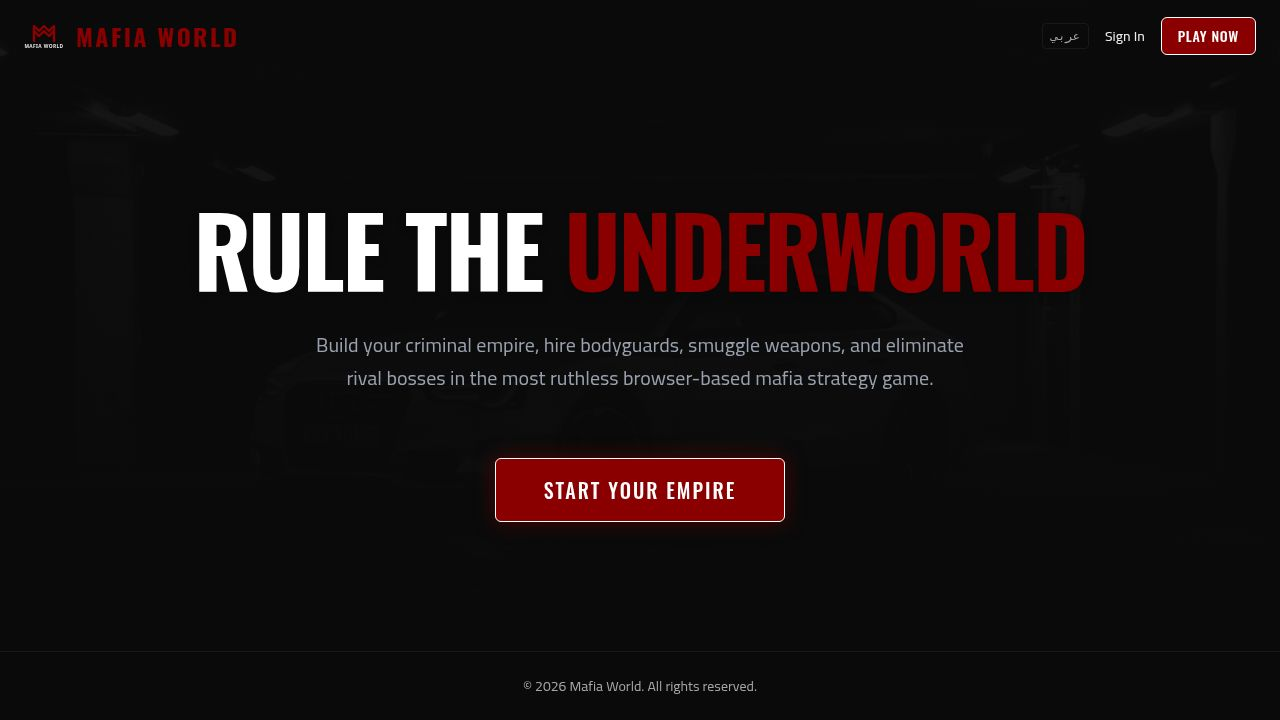
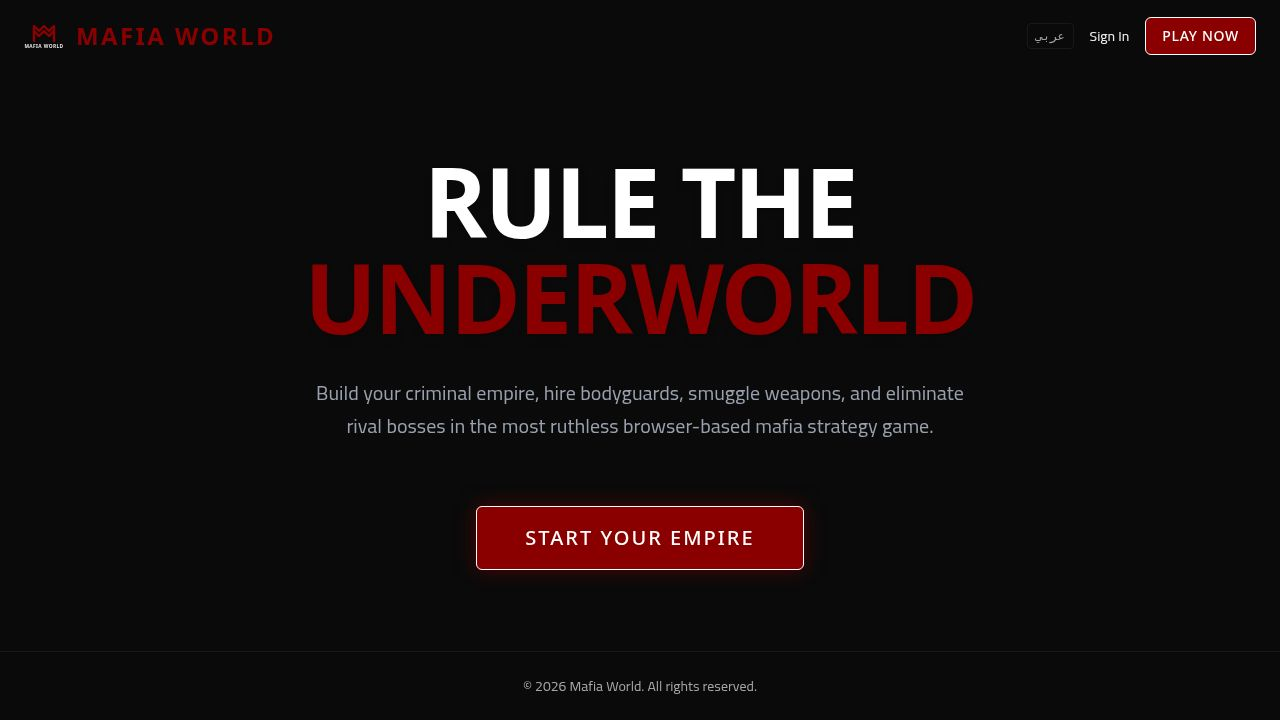
Task #40: full responsive audit for Mafia World
Make every player-facing and super-admin page work cleanly at 375px,
768px, and 1024px+ using Tailwind responsive prefixes only — no
media-query CSS, no visual redesign.

Global shell:
- layout.tsx: hide sidebar < md; mobile sticky topbar with hamburger
  opening a Sheet drawer (RTL-aware side, auto-closes on nav).
- layout.tsx: add money + level key counters to mobile topbar (compact
  locale-aware formatting; bell stays in top-right cluster).
- ui/dialog.tsx: clamp DialogContent to viewport with scroll body and
  responsive padding so all shadcn dialogs (Black Market sell, etc.)
  fit on 375px.
- PageBanner.tsx: shrink heights/typography for mobile, wrap long titles.

Per-page tightening (player-facing):
- dashboard.tsx: activity rows min-w-0 + break-words.
- players.tsx: card header gap + min-w-0 truncate on username.
- gang-detail.tsx: roster row min-w-0 truncate; badge shrink-0.
- crimes.tsx: header gap-2 min-w-0; title text-base sm:text-lg
  break-words; right action panel border-t on mobile, border-l on
  desktop so action stacks beneath description.
- attack.tsx: my-attacks row min-w-0 + break-words for long targets.
- properties.tsx: reactor stats grid-cols-1 sm:grid-cols-3 (was 3 cols
  at all sizes, too tight at 375).
- profile.tsx: anti-spy status row stacks on mobile so countdown wraps
  below the icon/label.
- bodyguards.tsx: incoming-request rows stack on mobile, accept/reject
  group wraps.
[…]

diff --git a/artifacts/mafia-world/src/pages/super-admin/players.tsx b/artifacts/mafia-world/src/pages/super-admin/players.tsx
@@ -143,7 +143,58 @@ export default function SuperAdminPlayers() {
           </label>
         </div>
 
-        <div className="bg-[#1e293b] rounded-xl border border-slate-700 overflow-x-auto">
+        {/* Mobile card stack */}
+        <div className="md:hidden space-y-2">
+          {loading ? (
+            <div className="bg-[#1e293b] rounded-xl border border-slate-700 py-8 text-center text-slate-500 text-sm">Loading...</div>
+          ) : players.map(p => (
+            <div key={p.id} className={`bg-[#1e293b] rounded-xl border border-slate-700 p-3 ${p.isBanned ? "opacity-60" : ""}`}>
+              <div className="flex items-start justify-between gap-2">
+                <div className="min-w-0 flex-1">
+                  <div className="font-medium text-white text-sm flex items-center gap-1.5 flex-wrap">
+                    <span className="truncate">{p.username}</span>
+                    {p.isBanned && <span className="text-xs bg-red-900/50 text-red-400 border border-red-700/40 px-1.5 py-0.5 rounded">banned</span>}
+                    {p.isPermanentlyDead && <span className="text-xs bg-red-950/70 text-red-300 border border-red-800/60 px-1.5 py-0.5 rounded">💀</span>}
+                  </div>
+                  <div className="text-xs text-slate-500">{p.cityName} • Lvl {p.level}</div>
+                </div>
+                {p.isPermanentlyDead ? (
+                  <span className="text-xs bg-red-950/60 text-red-300 border border-red-800/60 px-2 py-0.5 rounded-full shrink-0">DEAD</span>
+                ) : p.isInPrison ? (
+                  <span className="text-xs bg-orange-900/30 text-orange-400 border border-orange-700/50 px-2 py-0.5 rounded-full shrink-0">Prison</span>
+                ) : (
+                  <span className="text-xs bg-green-900/20 text-green-400 border border-green-700/30 px-2 py-0.5 rounded-full shrink-0">Active</span>
+                )}
+              </div>
+              <div className="mt-2 grid grid-cols-3 gap-2 text-xs text-slate-400">
+                <div><span className="text-slate-500">$</span> <span className="text-slate-300 font-mono">{p.money.toLocaleString()}</span></div>
+                <div><span className="text-slate-500">K/D</span> <span className="text-slate-300 font-mono">{p.killCount}/{p.deathCount}</span></div>
+                <div><span className="text-slate-500">A/D</span> <span className="text-slate-300 font-mono">{p.attackPower}/{p.defensePower}</span></div>
+              </div>
+              <div className="mt-2 flex flex-wrap gap-1">
+                <button onClick={() => setDialog({ type: "edit", player: p })} className="text-xs bg-slate-700 hover:bg-slate-600 text-white px-2 py-1 rounded">Edit</button>
+                <button onClick={() => setDialog({ type: "add-money", player: p })} className="text-xs bg-slate-700 hover:bg-slate-600 text-white px-2 py-1 rounded">💰</button>
+                {p.isInPrison
+                  ? <button onClick={() => releasePlayer(p)} className="text-xs bg-green-800/50 hover:bg-green-700 text-green-300 px-2 py-1 rounded">Release</button>
+                  : <button onClick={() => setDialog({ type: "jail", player: p })} className="text-xs bg-orange-900/50 hover:bg-orange-800 text-orange-300 px-2 py-1 rounded">Jail</button>}
+                {p.isBanned
+                  ? <button onClick={() => unbanPlayer(p)} className="text-xs bg-green-800/50 hover:bg-green-700 text-green-300 px-2 py-1 rounded">Unban</button>
+                  : <button onClick={() => setDialog({ type: "ban", player: p })} className="text-xs bg-red-900/40 hover:bg-red-800 text-red-400 px-2 py-1 rounded">Ban</button>}
+                {p.isChatMuted
+                  ? <button onClick={() => unmuteChat(p)} className="text-xs bg-green-800/50 hover:bg-green-700 text-green-300 px-2 py-1 rounded">Unmute</button>
+                  : <button onClick={() => setDialog({ type: "chat-mute", player: p })} className="text-xs bg-purple-900/40 hover:bg-purple-800 text-purple-300 px-2 py-1 rounded">Mute</button>}
+                {p.isPermanentlyDead && (
+                  <button onClick={() => setDialog({ type: "revive", player: p })} className="text-xs bg-emerald-800/50 hover:bg-emerald-700 text-emerald-200 px-2 py-1 rounded">Revive</button>
+                )}
+                <button onClick={() => setDialog({ type: "reset", player: p })} className="text-xs bg-yellow-900/40 hover:bg-yellow-800/60 text-yellow-400 px-2 py-1 rounded">Reset</button>
+                <button onClick={() => setDialog({ type: "delete", player: p })} className="text-xs bg-red-900/40 hover:bg-red-800/60 text-red-400 px-2 py-1 rounded">Del</button>
+              </div>
+            </div>
+          ))}
+        </div>
+
+        {/* Desktop table */}
+        <div className="hidden md:block bg-[#1e293b] rounded-xl border border-slate-700 overflow-x-auto">
           <table className="w-full text-sm">
             <thead>
               <tr className="text-xs text-slate-400 uppercase border-b border-slate-700">
@@ -233,7 +284,7 @@ export default function SuperAdminPlayers() {
 function Modal({ title, children, onClose }: { title: string; children: React.ReactNode; onClose: () => void }) {
   return (
     <div className="fixed inset-0 bg-black/60 z-50 flex items-center justify-center p-4" onClick={onClose}>
-      <div className="bg-[#1e293b] border border-slate-700 rounded-xl w-full max-w-sm p-5" onClick={e => e.stopPropagation()}>
+      <div className="bg-[#1e293b] border border-slate-700 rounded-xl w-full max-w-sm p-5 max-h-[calc(100vh-2rem)] overflow-y-auto" onClick={e => e.stopPropagation()}>
         <div className="flex items-center justify-between mb-4">
           <h3 className="font-semibold text-white text-sm">{title}</h3>
           <button onClick={onClose} className="text-slate-500 hover:text-white">✕</button>

diff --git a/artifacts/mafia-world/src/components/layout.tsx b/artifacts/mafia-world/src/components/layout.tsx
@@ -25,6 +25,8 @@ import {
   MessageCircle,
   Mail,
   Menu,
+  DollarSign,
+  Star,
 } from "lucide-react";
 import { Button } from "@/components/ui/button";
 import { Badge } from "@/components/ui/badge";
@@ -37,6 +39,7 @@ import {
 } from "@/components/ui/sheet";
 import { useQuery } from "@tanstack/react-query";
 import { NotificationBell } from "@/components/NotificationBell";
+import { useGetMyProfile, getGetMyProfileQueryKey } from "@workspace/api-client-react";
 
 
 interface LayoutProps {
@@ -133,8 +136,8 @@ function SidebarBody({ onNavigate }: SidebarBodyProps) {
                   : "text-muted-foreground hover:bg-secondary hover:text-foreground"
               }`}
             >
-              <Icon className="w-5 h-5" />
-              <span>{t(item.label)}</span>
+              <Icon className="w-5 h-5 shrink-0" />
+              <span className="truncate">{t(item.label)}</span>
             </Link>
           );
         })}
@@ -149,8 +152,8 @@ function SidebarBody({ onNavigate }: SidebarBodyProps) {
                 : "text-primary/70 hover:bg-primary/10 hover:text-primary"
             }`}
           >
-            <ShieldAlert className="w-5 h-5" />
-            <span>{t("nav.admin")}</span>
+            <ShieldAlert className="w-5 h-5 shrink-0" />
+            <span className="truncate">{t("nav.admin")}</span>
           </Link>
         )}
       </nav>
@@ -182,7 +185,7 @@ function SidebarBody({ onNavigate }: SidebarBodyProps) {
         <Button
           variant="ghost"
           className="w-full justify-start text-muted-foreground hover:text-destructive"
-          onClick={() => signOut()}
+          onClick={() => { onNavigate?.(); signOut(); }}
         >
           <LogOut className="w-5 h-5 mr-2" />
           {t("nav.logout")}
@@ -193,8 +196,9 @@ function SidebarBody({ onNavigate }: SidebarBodyProps) {
 }
 
 export function Layout({ children }: LayoutProps) {
-  const { t, dir } = useI18n();
+  const { t, dir, language } = useI18n();
   const [open, setOpen] = useState(false);
+  const { data: profileForTopbar } = useGetMyProfile({ query: { queryKey: getGetMyProfileQueryKey(), staleTime: 30000 } });
 
   return (
     <div className="min-h-screen bg-background text-foreground flex flex-col md:flex-row">
@@ -231,7 +235,21 @@ export function Layout({ children }: LayoutProps) {
           </span>
         </Link>
 
-        <NotificationBell />
+        <div className="flex items-center gap-1.5 shrink-0">
+          {profileForTopbar && (
+            <>
+              <span className="flex items-center gap-1 text-xs font-mono text-green-500 bg-green-500/10 px-1.5 py-1 rounded" data-testid="topbar-money">
+                <DollarSign className="w-3 h-3" />
+                <span className="tabular-nums">{Intl.NumberFormat(language === "ar" ? "ar-EG" : "en-US", { notation: "compact", maximumFractionDigits: 1 }).format(profileForTopbar.money)}</span>
+              </span>
+              <span className="flex items-center gap-1 text-xs font-mono text-primary bg-primary/10 px-1.5 py-1 rounded" data-testid="topbar-level">
+                <Star className="w-3 h-3" />
+                <span className="tabular-nums">{profileForTopbar.level}</span>
+              </span>
+            </>
+          )}
+          <NotificationBell />
+        </div>
       </header>
 
       {/* Desktop sidebar */}
@@ -239,7 +257,7 @@ export function Layout({ children }: LayoutProps) {
         <SidebarBody />
       </aside>
 
-      <main className="flex-1 overflow-y-auto p-4 md:p-8">
+      <main className="flex-1 overflow-y-auto p-3 sm:p-4 md:p-8 min-w-0">
         <div className="max-w-6xl mx-auto">{children}</div>
       </main>
     </div>

diff --git a/artifacts/mafia-world/src/pages/super-admin/blackmarket.tsx b/artifacts/mafia-world/src/pages/super-admin/blackmarket.tsx
@@ -34,7 +34,31 @@ export default function SuperAdminBlackMarket() {
           {msg && <span className="text-xs text-green-400 bg-green-900/20 px-2 py-1 rounded">{msg}</span>}
         </div>
 
-        <div className="bg-[#1e293b] rounded-xl border border-slate-700 overflow-x-auto">
+        {/* Mobile card stack */}
+        <div className="md:hidden space-y-2">
+          {loading ? (
+            <div className="bg-[#1e293b] rounded-xl border border-slate-700 py-8 text-center text-slate-500 text-sm">Loading...</div>
+          ) : listings.length === 0 ? (
+            <div className="bg-[#1e293b] rounded-xl border border-slate-700 py-8 text-center text-slate-500 text-sm">No listings</div>
+          ) : listings.map(l => (
+            <div key={l.id} className="bg-[#1e293b] rounded-xl border border-slate-700 p-3">
+              <div className="flex items-start justify-between gap-2">
+                <div className="min-w-0 flex-1">
+                  <p className="font-medium text-white text-sm truncate">{l.item_name}</p>
+                  <p className="text-xs text-slate-500 truncate">{l.seller_name}</p>
+                </div>
+                <span className="text-xs bg-slate-700 text-slate-300 px-2 py-0.5 rounded shrink-0">{l.item_type}</span>
+              </div>
+              <div className="mt-2 flex items-center justify-between text-xs">
+                <span className="text-slate-400">Qty <span className="text-slate-200 font-mono">{l.quantity}</span> &nbsp;·&nbsp; <span className="text-slate-200 font-mono">${l.price.toLocaleString()}</span></span>
+                <button onClick={() => removeListing(l.id)} className="text-xs bg-red-900/40 hover:bg-red-800/60 text-red-400 px-2 py-1 rounded">Remove</button>
+              </div>
+            </div>
+          ))}
+        </div>
+
+        {/* Desktop table */}
+        <div className="hidden md:block bg-[#1e293b] rounded-xl border border-slate-700 overflow-x-auto">
           <table className="w-full text-sm">
             <thead>
               <tr className="text-xs text-slate-400 uppercase border-b border-slate-700">

diff --git a/artifacts/mafia-world/src/pages/super-admin/prison.tsx b/artifacts/mafia-world/src/pages/super-admin/prison.tsx
@@ -46,7 +46,27 @@ export default function SuperAdminPrison() {
         {prisoners.length === 0 && !loading ? (
           <div className="bg-[#1e293b] rounded-xl border border-slate-700 py-12 text-center text-slate-500">No players in prison</div>
         ) : (
-          <div className="bg-[#1e293b] rounded-xl border border-slate-700 overflow-x-auto">
+          <>
+          {/* Mobile card stack */}
+          <div className="md:hidden space-y-2">
+            {loading ? (
+              <div className="bg-[#1e293b] rounded-xl border border-slate-700 py-8 text-center text-slate-500 text-sm">Loading...</div>
+            ) : prisoners.map(p => (
+              <div key={p.id} className="bg-[#1e293b] rounded-xl border border-slate-700 p-3">
+                <div className="flex items-start justify-between gap-2">
+                  <div className="min-w-0 flex-1">
+                    <p className="font-medium text-white text-sm truncate">{p.username} <span className="text-xs text-slate-500">Lvl {p.level}</span></p>
+                    <p className="text-xs text-slate-500 truncate">{p.prisonCrime ?? "—"}</p>
+                  </div>
+                  <span className="text-orange-400 text-xs font-mono shrink-0">{timeLeft(p.prisonReleaseAt)}</span>
+                </div>
+                <button onClick={() => release(p)} className="mt-2 text-xs bg-green-800/50 hover:bg-green-700 text-green-300 px-2 py-1 rounded w-full">Release</button>
+              </div>
+            ))}
+          </div>
+
+          {/* Desktop table */}
+          <div className="hidden md:block bg-[#1e293b] rounded-xl border border-slate-700 overflow-x-auto">
             <table className="w-full text-sm">
               <thead>
                 <tr className="text-xs text-slate-400 uppercase border-b border-slate-700">
@@ -76,6 +96,7 @@ export default function SuperAdminPrison() {
               </tbody>
             </table>
           </div>
+          </>
         )}
       </div>
     </AdminLayout>

diff --git a/artifacts/mafia-world/src/pages/super-admin/activity-log.tsx b/artifacts/mafia-world/src/pages/super-admin/activity-log.tsx
@@ -49,7 +49,24 @@ export default function SuperAdminActivityLog() {
           className="bg-[#1e293b] border border-slate-600 rounded-lg px-3 py-2 text-sm text-white placeholder-slate-500 focus:outline-none focus:border-[#ef4444] w-56"
         />
 
-        <div className="bg-[#1e293b] rounded-xl border border-slate-700 overflow-x-auto">
+        {/* Mobile card stack */}
+        <div className="md:hidden space-y-2">
+          {loading ? (
+            <div className="bg-[#1e293b] rounded-xl border border-slate-700 py-8 text-center text-slate-500 text-sm">Loading...</div>
+          ) : events.map(e => (
+            <div key={e.id} className="bg-[#1e293b] rounded-xl border border-slate-700 p-3">
+              <div className="flex items-start justify-between gap-2">
+                <span className={`text-xs px-2 py-0.5 rounded shrink-0 ${TYPE_COLORS[e.type] ?? "text-slate-400 bg-slate-700/20"}`}>{e.type}</span>
+                <span className="text-xs text-slate-500 text-right shrink-0">{new Date(e.createdAt).toLocaleString()}</span>
+              </div>
+              <div className="mt-1.5 text-xs text-slate-300 break-words">{e.description}</div>
+              <div className="mt-1 text-xs text-slate-500">{e.username ?? "—"}</div>
+            </div>
+          ))}
+        </div>
+
+        {/* Desktop table */}
+        <div className="hidden md:block bg-[#1e293b] rounded-xl border border-slate-700 overflow-x-auto">
           <table className="w-full text-sm">
             <thead>
               <tr className="text-xs text-slate-400 uppercase border-b border-slate-700">

diff --git a/artifacts/mafia-world/src/components/PageBanner.tsx b/artifacts/mafia-world/src/components/PageBanner.tsx
@@ -6,7 +6,7 @@ interface PageBannerProps {
 
 export function PageBanner({ image, title, subtitle }: PageBannerProps) {
   return (
-    <div className="relative w-full h-44 sm:h-56 rounded-xl overflow-hidden mb-6 shadow-[0_0_30px_rgba(0,0,0,0.6)]">
+    <div className="relative w-full h-32 sm:h-44 md:h-56 rounded-xl overflow-hidden mb-4 sm:mb-6 shadow-[0_0_30px_rgba(0,0,0,0.6)]">
       <img
         src={image}
         alt={title}
@@ -14,12 +14,12 @@ export function PageBanner({ image, title, subtitle }: PageBannerProps) {
       />
       <div className="absolute inset-0 bg-gradient-to-r from-black/90 via-black/60 to-black/30" />
       <div className="absolute inset-0 bg-gradient-to-t from-black/80 via-transparent to-transparent" />
-      <div className="absolute bottom-0 left-0 p-6">
-        <h1 className="text-3xl sm:text-4xl font-heading font-bold uppercase tracking-widest text-white drop-shadow-lg">
+      <div className="absolute bottom-0 left-0 right-0 p-4 sm:p-6">
+        <h1 className="text-xl sm:text-3xl md:text-4xl font-heading font-bold uppercase tracking-wider sm:tracking-widest text-white drop-shadow-lg break-words">
           {title}
         </h1>
         {subtitle && (
-          <p className="text-sm text-white/70 mt-1 font-mono tracking-wider">{subtitle}</p>
+          <p className="text-xs sm:text-sm text-white/70 mt-1 font-mono tracking-wider">{subtitle}</p>
         )}
       </div>
     </div>

diff --git a/artifacts/mafia-world/src/pages/attack.tsx b/artifacts/mafia-world/src/pages/attack.tsx
@@ -302,10 +302,10 @@ export default function Attack() {
               <div className="divide-y divide-border/50">
                 {myAttacks.map((atk) => (
                   <div key={atk.id} className="p-4 flex flex-col gap-2 hover:bg-secondary/20">
-                    <div className="flex justify-between items-start">
-                      <div>
-                        <p className="font-bold font-heading uppercase text-lg">{t("attack.target")}: {atk.targetUsername}</p>
-                        <p className="text-xs text-muted-foreground mt-1">
+                    <div className="flex justify-between items-start gap-2">
+                      <div className="min-w-0 flex-1">
+                        <p className="font-bold font-heading uppercase text-base sm:text-lg break-words">{t("attack.target")}: {atk.targetUsername}</p>
+                        <p className="text-xs text-muted-foreground mt-1 break-words">
                           {atk.weaponName} — {atk.ammoUsed} {t("attack.rounds")} — {atk.fromCityName} → {atk.toCityName}
                         </p>
                       </div>

diff --git a/artifacts/mafia-world/src/pages/crimes.tsx b/artifacts/mafia-world/src/pages/crimes.tsx
@@ -184,9 +184,9 @@ export default function Crimes() {
 
                   <div className="flex flex-col sm:flex-row">
                     <div className="p-5 flex-1 space-y-3">
-                      <div className="flex justify-between items-start">
-                        <div>
-                          <h3 className="text-lg font-bold font-heading uppercase">{crime.name}</h3>
+                      <div className="flex justify-between items-start gap-2">
+                        <div className="min-w-0 flex-1">
+                          <h3 className="text-base sm:text-lg font-bold font-heading uppercase break-words">{crime.name}</h3>
                           <p className="text-xs text-muted-foreground mt-0.5">
                             {t("common.level")} {crime.requiredLevel} {t("crimes.levelRequired")}
                           </p>
@@ -220,7 +220,7 @@ export default function Crimes() {
                       </div>
                     </div>
 
-                    <div className="bg-secondary/20 p-5 flex flex-col justify-center items-center sm:border-l border-border/50 sm:w-44 gap-3">
+                    <div className="bg-secondary/20 p-4 sm:p-5 flex flex-col justify-center items-center border-t sm:border-t-0 sm:border-l border-border/50 sm:w-44 gap-3">
                       {isLocked ? (
                         <div className="flex flex-col items-center gap-1 text-center">
                           <Lock className="w-5 h-5 text-muted-foreground" />

diff --git a/artifacts/mafia-world/src/pages/gang-detail.tsx b/artifacts/mafia-world/src/pages/gang-detail.tsx
@@ -83,12 +83,12 @@ export default function GangDetail() {
           ) : members && members.length > 0 ? (
             <div className="divide-y divide-border/50">
               {members.map((member) => (
-                <div key={member.id} className="p-4 flex items-center justify-between">
-                  <div>
-                    <p className="font-bold text-foreground">{member.username}</p>
+                <div key={member.id} className="p-4 flex items-center justify-between gap-3">
+                  <div className="min-w-0 flex-1">
+                    <p className="font-bold text-foreground truncate">{member.username}</p>
                     <p className="text-xs text-muted-foreground">{t("common.level")} {member.level}</p>
                   </div>
-                  <Badge variant="outline" className={`${getRankColor(member.rank)} font-bold tracking-wider uppercase`}>
+                  <Badge variant="outline" className={`${getRankColor(member.rank)} font-bold tracking-wider uppercase shrink-0`}>
                     {member.rank === "Boss" && <Crown className="w-3 h-3 mr-1" />}
                     {getRankLabel(member.rank)}
                   </Badge>

diff --git a/artifacts/mafia-world/src/pages/profile.tsx b/artifacts/mafia-world/src/pages/profile.tsx
@@ -217,14 +217,14 @@ export default function Profile() {
             </CardHeader>
             <CardContent className="space-y-4">
               <div
-                className={`flex items-center justify-between p-4 rounded-lg border ${
+                className={`flex flex-col sm:flex-row sm:items-center sm:justify-between gap-3 p-4 rounded-lg border ${
                   antiSpyActive
                     ? "bg-emerald-950/30 border-emerald-800/50"
                     : "bg-secondary/30 border-border/50"
                 }`}
                 data-testid="status-anti-spy"
               >
-                <div className="flex items-center gap-3">
+                <div className="flex items-center gap-3 min-w-0">
                   {antiSpyActive ? (
                     <ShieldCheck className="w-8 h-8 text-emerald-400" />
                   ) : (
@@ -238,8 +238,8 @@ export default function Profile() {
                   </div>
                 </div>
                 {antiSpyActive && (
-                  <div className="text-right">
-                    <p className="text-xs text-muted-foreground flex items-center justify-end gap-1">
+                  <div className="sm:text-right">
+                    <p className="text-xs text-muted-foreground flex items-center sm:justify-end gap-1">
                       <Clock className="w-3 h-3" />
                       {t("profile.antiSpyTimeRemaining")}
                     </p>

diff --git a/artifacts/mafia-world/src/pages/bodyguards.tsx b/artifacts/mafia-world/src/pages/bodyguards.tsx
@@ -205,14 +205,14 @@ export default function Bodyguards() {
                   {isRequestsLoading ? (
                     <div className="p-4"><Skeleton className="h-16 w-full bg-secondary" /></div>
                   ) : incomingRequests.map(r => (
-                    <div key={r.id} className="p-4 flex items-center justify-between gap-4">
-                      <div>
+                    <div key={r.id} className="p-4 flex flex-col sm:flex-row sm:items-center sm:justify-between gap-3">
+                      <div className="min-w-0">
                         <p className="font-bold font-heading uppercase">{r.fromUsername}</p>
                         {r.offeredMoney > 0 && (
                           <p className="text-xs text-green-500 font-mono mt-1">{t("bodyguards.offering")}: ${r.offeredMoney.toLocaleString()}</p>
                         )}
                       </div>
-                      <div className="flex gap-2">
+                      <div className="flex gap-2 flex-wrap">
                         <Button
                           size="sm"
                           className="font-heading uppercase"

diff --git a/artifacts/mafia-world/src/pages/players.tsx b/artifacts/mafia-world/src/pages/players.tsx
@@ -95,9 +95,9 @@ export default function Players() {
             return (
               <Card key={player.id} className="bg-card border-border hover:border-primary/50 transition-colors">
                 <CardContent className="p-5">
-                  <div className="flex justify-between items-start">
-                    <div>
-                      <h3 className="font-bold text-lg font-heading uppercase">{player.username}</h3>
+                  <div className="flex justify-between items-start gap-2">
+                    <div className="min-w-0 flex-1">
+                      <h3 className="font-bold text-lg font-heading uppercase truncate">{player.username}</h3>
                       <div className="flex items-center gap-2 flex-wrap">
                         <p className="text-sm text-muted-foreground">{t("common.level")} {player.level} • {player.cityName}</p>
                         {player.isInPrison && (